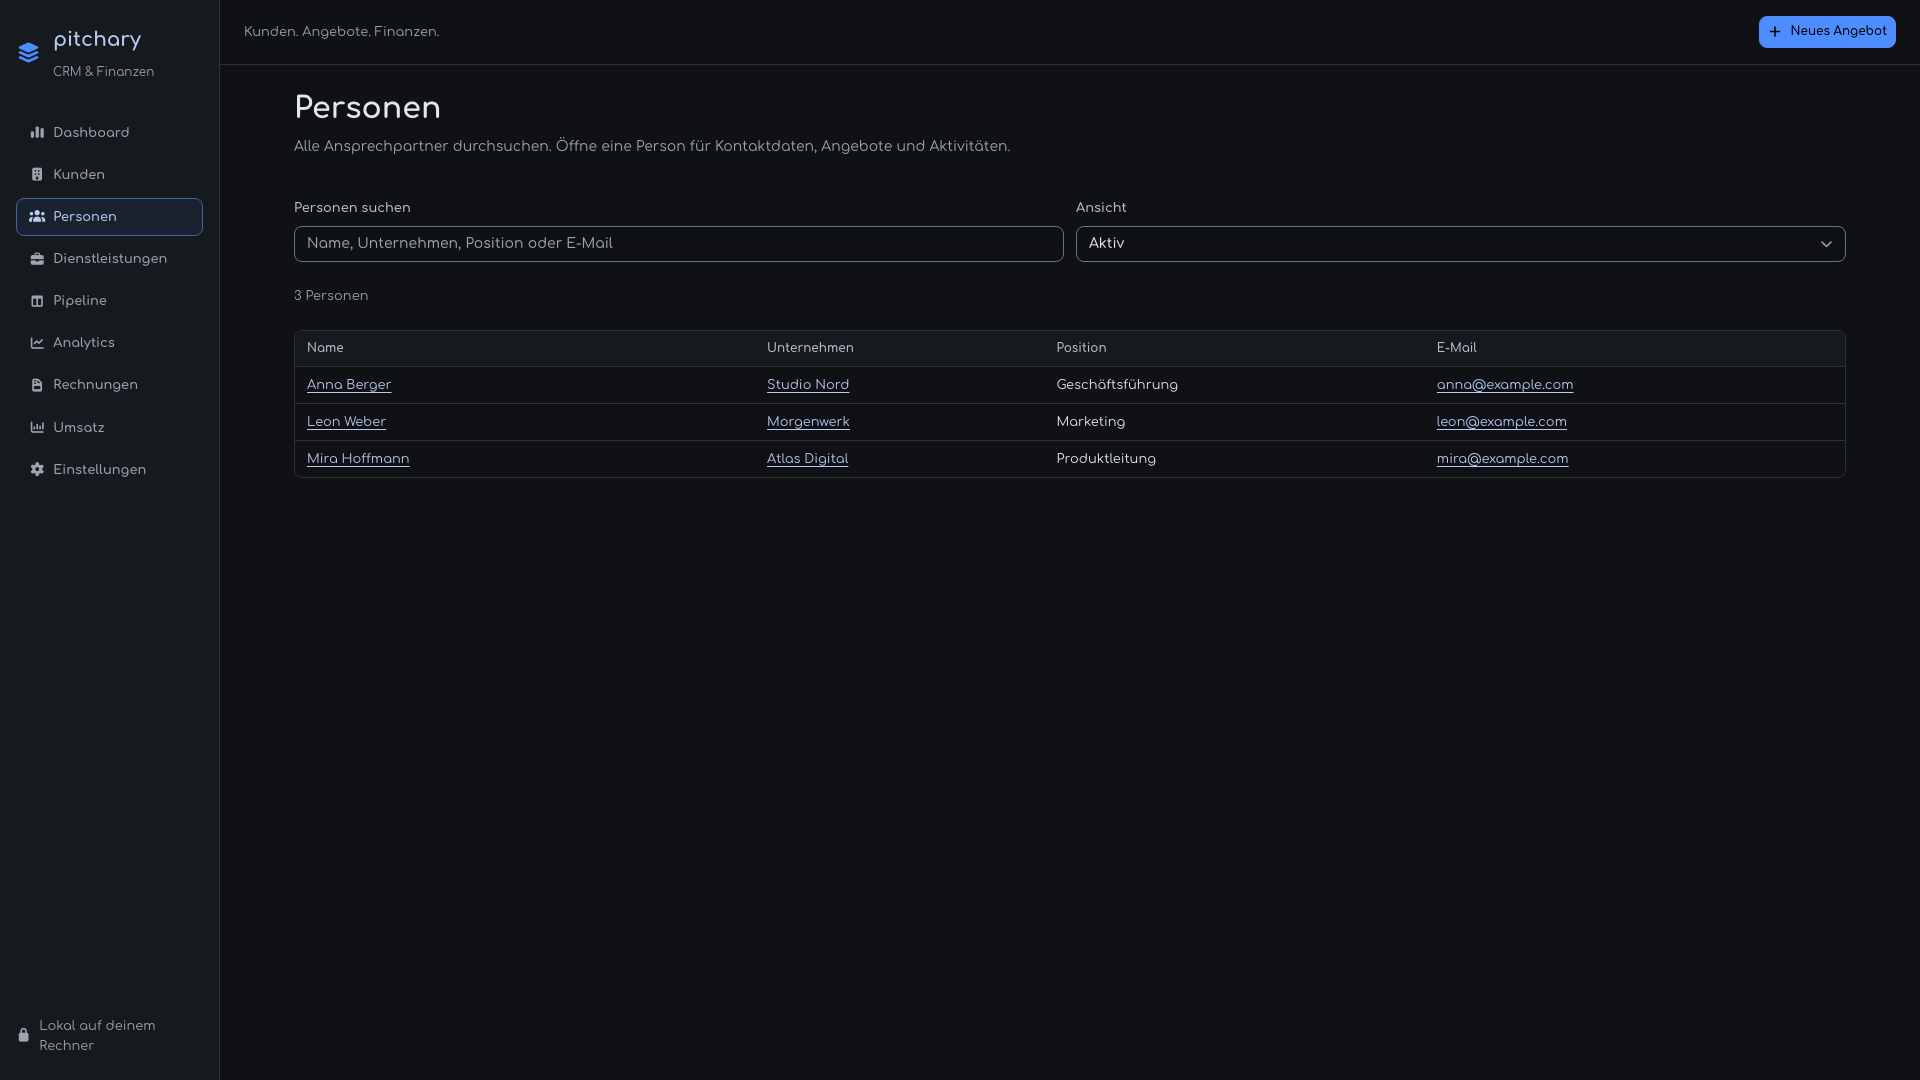
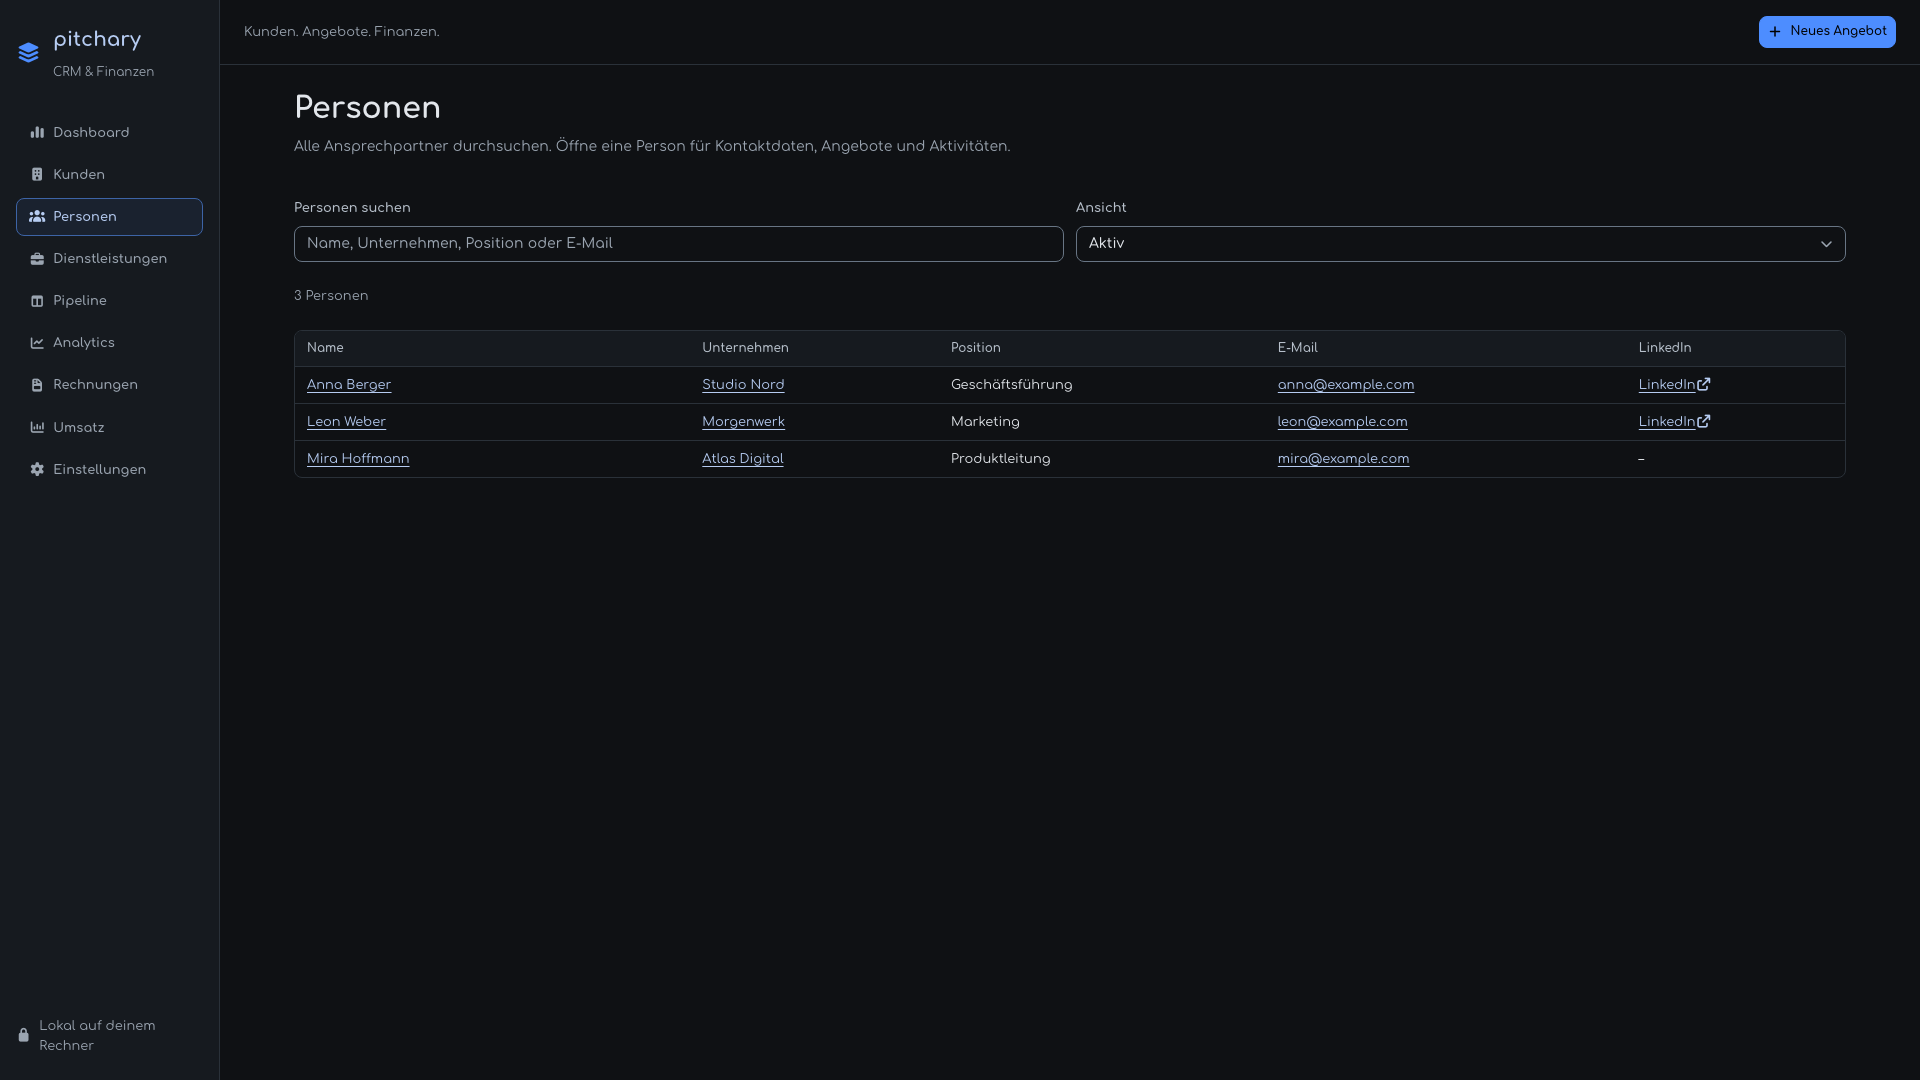
screenshot and linkedin in persons

diff --git a/public/js/views.js b/public/js/views.js
@@ -645,7 +645,7 @@ export async function employeeList() {
     const directory = filtered.length
       ? table(
           "Personen",
-          ["Name", "Unternehmen", "Position", "E-Mail"],
+          ["Name", "Unternehmen", "Position", "E-Mail", "LinkedIn"],
           filtered.map((row) => [
             employeeLink(row.name, row.id),
             el(
@@ -662,6 +662,19 @@ export async function employeeList() {
             ),
             row.position || "–",
             row.email ? link(row.email, "mailto:" + row.email) : "–",
+            row.linkedin
+              ? el(
+                  "a",
+                  {
+                    class: "oj-link",
+                    href: row.linkedin,
+                    target: "_blank",
+                    rel: "noopener noreferrer",
+                  },
+                  "LinkedIn",
+                  icon("arrow-up-right-from-square"),
+                )
+              : "–",
           ]),
         )
       : empty(

diff --git a/scripts/screenshot-demo.js b/scripts/screenshot-demo.js
@@ -42,6 +42,16 @@ export async function createScreenshotApp() {
   });
   try {
     seedDemo(app.database);
+    const employees = app.crm.listEntities("employees");
+    for (const [name, profile] of [
+      ["Anna Berger", "demo-anna-berger"],
+      ["Leon Weber", "demo-leon-weber"],
+    ]) {
+      const employee = employees.find((employee) => employee.name === name);
+      app.crm.updateEntity("employees", employee.id, {
+        linkedin: `https://www.linkedin.com/in/${profile}/`,
+      });
+    }
     await app.financeSettings.save({
       company_name: "Feld & Form Studio",
       company_email: "office@feld-form.example",

diff --git a/public/app.css b/public/app.css
@@ -738,13 +738,16 @@ img.customer-logo {
   white-space: nowrap;
 }
 .employee-directory-table .oj-table {
-  min-inline-size: 46rem;
+  min-inline-size: 52rem;
 }
 .employee-directory-table th {
   white-space: nowrap;
 }
 .employee-directory-table td:first-child {
   min-inline-size: 11rem;
+}
+.employee-directory-table td:last-child .oj-link {
+  white-space: nowrap;
 }
 .employee-offers-table .oj-table {
   min-inline-size: 58rem;

diff --git a/docs/changelog.md b/docs/changelog.md
@@ -1,5 +1,6 @@
 # 0.5.1
 
+- LinkedIn-Spalte mit direkten Profillinks in der Personenübersicht.
 - Personenmenü mit Suche, Archivansicht und direkten Links zu den persönlichen Kontaktdaten, Angeboten und Aktivitäten.
 - Einheitliche OJ-Selects in allen Filtern und Formularen, einschließlich Rechnungen und Einstellungen.
 - employee view
